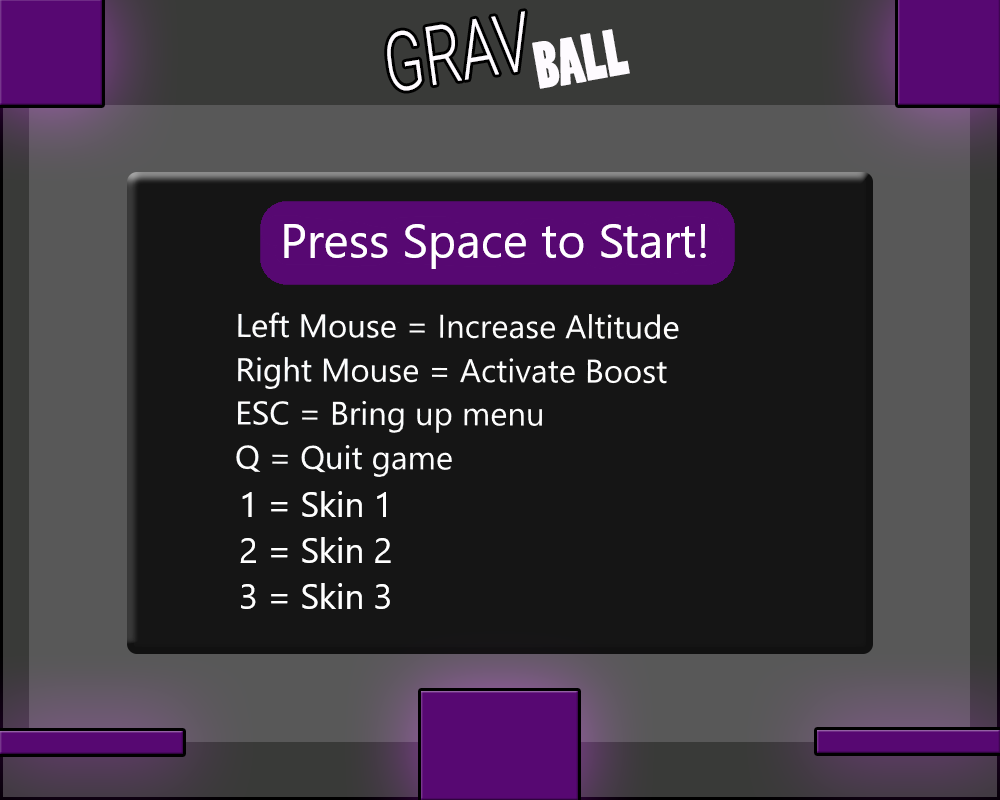
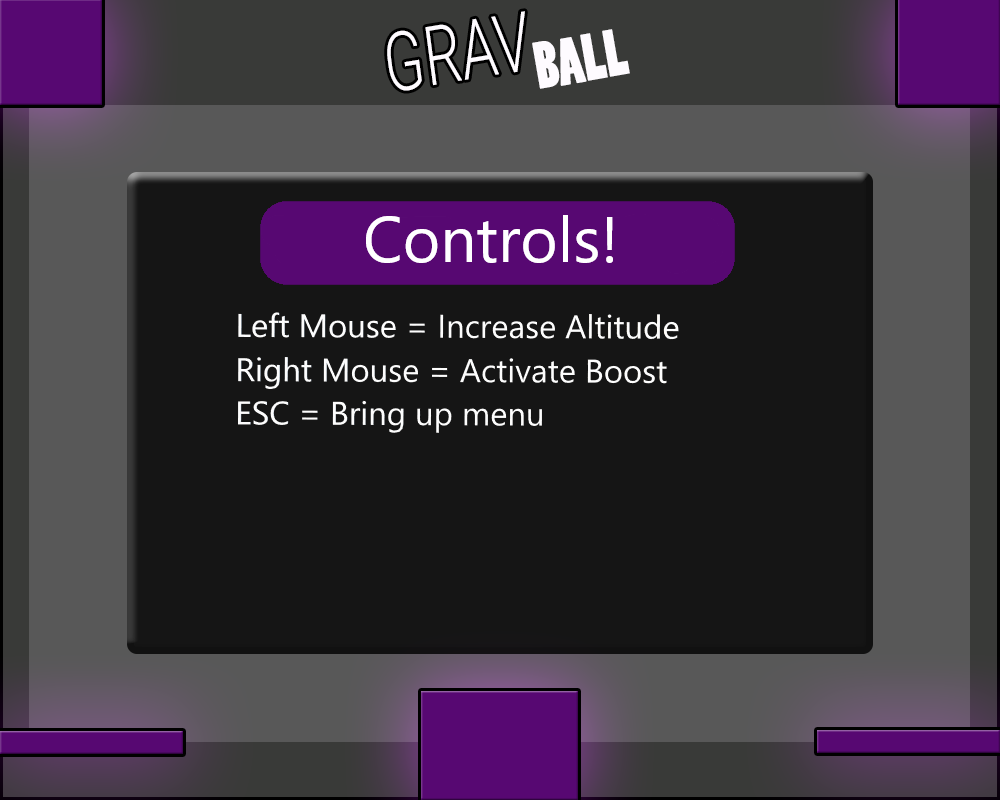
Fixed the escaping out of the controls screen and changed controls screen

Changed region(s): [[0.279, 0.25, 0.713, 0.3438], [0.217, 0.5625, 0.465, 0.7812]]

diff --git a/PortalEngine/PortalWorld.cpp b/PortalEngine/PortalWorld.cpp
@@ -523,6 +523,16 @@ void PortalWorld::Keyboard(unsigned char key, int x, int y)
 				//player.SetPosition(-525.0f, 0.0f, -50.0f);
 				startRun = false;
 			}
+
+			menuOption = "MENU";
+			xCounter = 1;
+			yCounter = 1;
+
+			first1 = 180;
+			first2 = 200;
+			first3 = 130;
+			first4 = 145;
+			
 			break;
 		case 13: // enter to start
 			if (arrowCounter == 0 && !startRun)
